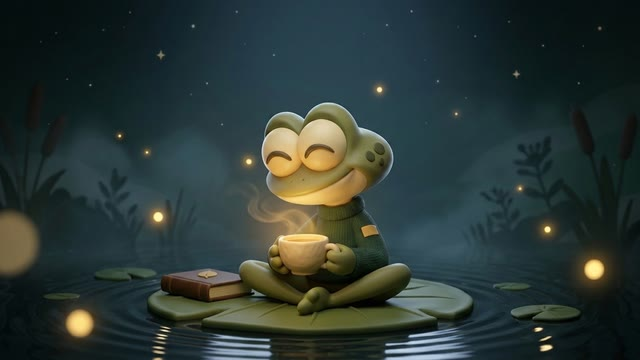
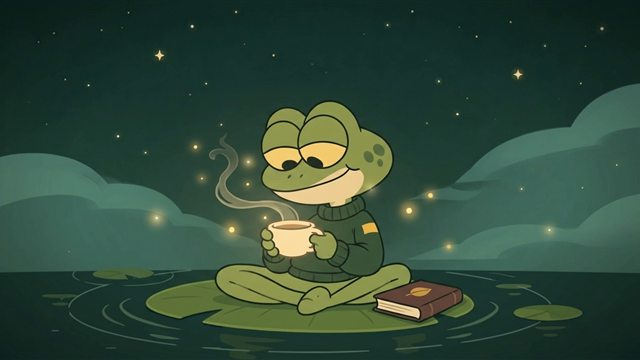
feat(landing): restore 2D frog assets, expand fireflies, and stream android phone gallery

diff --git a/assets/landing-polish.css b/assets/landing-polish.css
@@ -8,26 +8,26 @@ body { background: var(--bg-deep); }
 .nav-links a { padding: 8px 10px; }
 .nav-links a.active, .nav-links a[aria-current="true"] { color: var(--ink); background: none; }
 .nav-cta { font-size: 13px; min-height: 42px; }
-.hero { min-height: min(750px, calc(100dvh - 64px)); display: grid; grid-template-columns: minmax(0,1fr) minmax(0,1fr); gap: clamp(50px,8vw,140px); align-items: center; padding-block: 70px 90px; }
-.pond-stage { grid-column: 2; grid-row: 1; width: min(100%, 410px); height: min(560px, 67vh); justify-self: center; position: relative; overflow: hidden; border: 1px solid rgba(240,199,94,0.22); border-radius: 220px 220px 24px 24px; background: #11231b url('hero/frog-reading-poster.webp') center 50% / cover no-repeat; transform-style: preserve-3d; transform: perspective(1200px) rotateX(var(--tilt-x, 2deg)) rotateY(var(--tilt-y, -4deg)) translateZ(0); box-shadow: 0 1px 0 rgba(240,199,94,0.34) inset, 0 8px 0 #09110d, 0 28px 48px -12px rgba(0,0,0,0.75); transition: transform 180ms cubic-bezier(0.16, 1, 0.3, 1), box-shadow 320ms cubic-bezier(0.16, 1, 0.3, 1); }
+.hero { position: relative; min-height: min(750px, calc(100dvh - 64px)); display: grid; grid-template-columns: minmax(0,1fr) minmax(0,1fr); gap: clamp(50px,8vw,140px); align-items: center; padding-block: 70px 90px; }
+.pond-stage { grid-column: 2; grid-row: 1; width: min(100%, 410px); height: min(560px, 67vh); justify-self: center; position: relative; z-index: 1; overflow: hidden; border: 1px solid rgba(240,199,94,0.22); border-radius: 220px 220px 24px 24px; background: #11231b url('hero/frog-reading-poster.webp') center 50% / cover no-repeat; transform-style: preserve-3d; transform: perspective(1200px) rotateX(var(--tilt-x, 2deg)) rotateY(var(--tilt-y, -4deg)) translateZ(0); box-shadow: 0 1px 0 rgba(240,199,94,0.34) inset, 0 8px 0 #09110d, 0 28px 48px -12px rgba(0,0,0,0.75); transition: transform 180ms cubic-bezier(0.16, 1, 0.3, 1), box-shadow 320ms cubic-bezier(0.16, 1, 0.3, 1); }
 .pond-stage:hover { will-change: transform; }
 .pond-stage::after { content: ""; position: absolute; inset: 0; z-index: 2; border-radius: inherit; pointer-events: none; background: radial-gradient(circle at var(--glare-x, 35%) var(--glare-y, 25%), rgba(240,199,94,0.18), rgba(143,194,122,0.06) 38%, transparent 70%); box-shadow: 0 1px 0 rgba(240,199,94,0.34) inset, 0 -2px 0 rgba(0,0,0,0.7) inset; transition: opacity 280ms cubic-bezier(0.16, 1, 0.3, 1); }
 .pond-video { width: 100%; height: 100%; object-fit: cover; object-position: center; }
-.hero-message { grid-column: 1; grid-row: 1; max-width: 600px; }
+.hero-message { grid-column: 1; grid-row: 1; position: relative; z-index: 1; max-width: 600px; }
 .hero h1 { font-size: clamp(52px, 5.5vw, 78px); line-height: 1.03; letter-spacing: -.045em; font-weight: 700; }
 .hero-copy { margin: 22px 0 30px; max-width: 440px; font-size: clamp(17px,1.6vw,20px); color: var(--ink-dim); line-height: 1.45; }
 .hero .cta-primary { min-height: 54px; padding: 0 24px; font-size: 15px; }
 .hero-mobile-link { display: flex; align-items: center; width: fit-content; min-height: 44px; margin-top: 9px; font-size: 13px; color: var(--muted); text-decoration: underline; text-underline-offset: 3px; }
 .hero-mobile-link:hover { color: var(--ink); }
-.story { min-height: 690px; display: grid; grid-template-columns: minmax(280px, .72fr) minmax(0, 1.28fr); gap: clamp(40px,6vw,96px); align-items: center; padding-block: 95px; border-top: 1px solid var(--quiet-line); content-visibility: auto; contain-intrinsic-size: auto 640px; }
+.story { position: relative; min-height: 690px; display: grid; grid-template-columns: minmax(280px, .72fr) minmax(0, 1.28fr); gap: clamp(40px,6vw,96px); align-items: center; padding-block: 95px; border-top: 1px solid var(--quiet-line); content-visibility: auto; contain-intrinsic-size: auto 640px; }
 .story-reverse { grid-template-columns: minmax(0,1.28fr) minmax(280px,.72fr); }
 .story-reverse .story-copy { grid-column: 2; grid-row: 1; }
 .story-reverse .story-visual { grid-column: 1; grid-row: 1; }
-.story-copy { max-width: 450px; }
+.story-copy { position: relative; z-index: 1; max-width: 450px; }
 .story-num { display: block; margin-bottom: 19px; font-family: var(--font-mono); font-size: 12px; letter-spacing: .09em; color: var(--accent); }
 .story h2 { max-width: 500px; font-size: clamp(38px,3.5vw,52px); line-height: 1.08; font-weight: 700; }
 .story-copy > p { max-width: 390px; margin-top: 18px; font-size: 18px; line-height: 1.5; color: var(--ink-dim); }
-.story-visual { min-width: 0; margin: 0; perspective: 1400px; }
+.story-visual { position: relative; z-index: 1; min-width: 0; margin: 0; perspective: 1400px; }
 .story-visual-stack { display: grid; grid-template-columns: minmax(0, 1fr); gap: 24px; }
 .visual-crop { position: relative; overflow: hidden; width: 100%; border: 1px solid rgba(240,199,94,0.16); border-radius: 18px; background: var(--surface); transform-style: preserve-3d; box-shadow: 0 1px 0 rgba(239,233,220,0.22) inset, 0 7px 0 #0a0e0c, 0 26px 46px -12px rgba(0,0,0,0.74); transition: transform 200ms cubic-bezier(0.16, 1, 0.3, 1), box-shadow 320ms cubic-bezier(0.16, 1, 0.3, 1), border-color 320ms cubic-bezier(0.16, 1, 0.3, 1); }
 .visual-crop::after { content: ""; position: absolute; inset: 0; z-index: 2; border-radius: inherit; pointer-events: none; background: radial-gradient(circle at var(--glare-x, 50%) var(--glare-y, 20%), rgba(240,199,94,0.16), rgba(143,194,122,0.05) 36%, transparent 68%); box-shadow: 0 1px 0 rgba(239,233,220,0.22) inset, 0 -2px 0 rgba(0,0,0,0.75) inset; opacity: 0.35; transition: opacity 280ms cubic-bezier(0.16, 1, 0.3, 1); }
@@ -54,6 +54,7 @@ body { background: var(--bg-deep); }
 .pond-firefly-2 { top: 26%; right: 6%; width: 9px; height: 9px; animation: firefly-drift-2 10.2s ease-in-out 1.4s infinite; }
 .pond-firefly-3 { bottom: 18%; left: 8%; width: 10px; height: 10px; animation: firefly-drift-3 9.4s ease-in-out 2.8s infinite; }
 .pond-firefly-4 { top: 56%; right: 14%; width: 14px; height: 14px; animation: firefly-drift-4 11.6s ease-in-out 0.7s infinite; }
+.pond-firefly-5 { top: 18%; left: 48%; width: 11px; height: 11px; animation: firefly-drift-2 9.8s ease-in-out 2.1s infinite; }
 @keyframes firefly-drift-1 {
   0%, 100% { transform: translate3d(0, 0, 0) scale(0.85); opacity: 0.22; }
   35% { transform: translate3d(18px, -22px, 0) scale(1.1); opacity: 0.82; }
@@ -138,6 +139,7 @@ footer > p { max-width: 600px; color: var(--ink-dim); font-size: 15px; }
   .mobile-visual { width: min(100%, 260px); }
   .feedback-section { padding-block: 68px; }
   .pond-firefly-1 { top: 6%; left: auto; right: 10%; }
+  .pond-firefly-5 { top: 22%; left: 10%; }
   .feedback-head { grid-template-columns: 1fr; gap: 24px; align-items: start; }
   .feedback-vignette { margin: 0; width: min(100%, 300px); }
   .feedback-vignette figcaption { text-align: left; }
@@ -153,10 +155,10 @@ footer > p { max-width: 600px; color: var(--ink-dim); font-size: 15px; }
   .footer-bottom { flex-direction: column; align-items: flex-start; margin-top: 36px; gap: 12px; }
 }
 @media (prefers-reduced-motion: reduce) {
-  .pond-video { display: none; }
+  .pond-video,
+  .pond-fireflies { display: none; }
   .pond-firefly,
   .feedback-vignette { animation: none; transform: none; translate: none; will-change: auto; }
-  .pond-firefly { opacity: 0.32; }
   .pond-stage,
   .pond-stage:hover,
   .visual-crop,

diff --git a/features/index.html b/features/index.html
@@ -13,13 +13,13 @@
   <meta property="og:image" content="https://www.sylviae.space/assets/og-sylviae.jpg">
   <meta property="og:image:width" content="1200">
   <meta property="og:image:height" content="630">
-  <meta property="og:image:alt" content="3D Moonlit Pond diorama of the Sylviae frog wearing a green sweater and reading a glowing book on a floating lily pad surrounded by fireflies">
+  <meta property="og:image:alt" content="Sylviae Moonlit Pond: illustrated frog reading on a floating lily pad surrounded by fireflies">
   <meta property="og:type" content="website">
   <meta name="twitter:card" content="summary_large_image">
   <meta name="twitter:title" content="Features | Sylviae">
   <meta name="twitter:description" content="Explore Sylviae focus timer, tasks, distraction blocking, sounds, and Deep Focus on Windows.">
   <meta name="twitter:image" content="https://www.sylviae.space/assets/og-sylviae.jpg">
-  <meta name="twitter:image:alt" content="3D Moonlit Pond diorama of the Sylviae frog wearing a green sweater and reading a glowing book on a floating lily pad surrounded by fireflies">
+  <meta name="twitter:image:alt" content="Sylviae Moonlit Pond: illustrated frog reading on a floating lily pad surrounded by fireflies">
   <link rel="canonical" href="https://www.sylviae.space/features/">
   <link rel="icon" href="/assets/icon.ico" sizes="any">
   <link rel="stylesheet" href="/assets/site-core.css">
@@ -54,7 +54,7 @@
 <header class="inner-hero shell"><span class="story-num">THE WINDOWS WORKSPACE</span><h1>Make room for focus.</h1><p>A timer, one task, a quieter screen. The current v1.0.0 beta is free for Windows 64-bit.</p><a class="text-link" href="https://github.com/JGuilherme2005/Toki-Landing/releases/download/v1.0.0/toki-setup-1.0.0.exe">Download the Windows beta <span aria-hidden="true">&darr;</span></a></header>
 <section class="story shell" id="focus"><div class="story-copy"><span class="story-num">01 / FOCUS</span><h2>One task at a time.</h2><p>Start a focus timer beside your local tasks. Your next task stays close without pulling you into another app.</p><p class="fine-note">The native desktop image is a preview. The download is the current Windows v1.0.0 beta.</p></div><figure class="story-visual"><div class="visual-crop"><picture><source media="(max-width: 1024px)" srcset="/assets/app/mobile-today.webp" width="410" height="560"><img src="/assets/app/native-today-1280.webp" width="1582" height="900" alt="Native desktop preview with a focus timer beside today's tasks" loading="lazy"></picture></div></figure></section>
 <section class="story story-reverse shell" id="blocking"><div class="story-copy"><span class="story-num">02 / BLOCKING</span><h2>A boundary that holds.</h2><p>Choose distracting websites and applications. On Windows, Sylviae keeps the selected sites and apps out of reach during a focus session.</p><p class="fine-note">Blocking is a Windows desktop feature. Android currently saves your blocklist without enforcing it.</p></div><figure class="story-visual"><div class="visual-crop"><picture><source media="(max-width: 1024px)" srcset="/assets/app/mobile-blockers.webp" width="660" height="510"><img src="/assets/app/native-blockers-1280.webp" width="1582" height="1000" alt="Native desktop preview showing selected blocked sites and apps" loading="lazy"></picture></div></figure></section>
-<section class="story shell" id="sounds"><div class="story-copy"><span class="story-num">03 / SOUNDS &amp; DEEP FOCUS</span><h2>Sound that follows your time.</h2><p>Choose offline focus music or save Spotify and YouTube sources. Audio can follow the timer, fall silent during breaks, or keep playing.</p><p>Deep Focus turns the session into a quieter full-screen pond, with your task and countdown in view.</p><p class="fine-note">These native desktop images are previews; the current v1.0.0 Windows beta download is a separate build.</p></div><figure class="story-visual story-visual-stack"><div class="visual-crop"><picture><source media="(max-width: 1024px)" srcset="/assets/app/mobile-sounds.webp" width="660" height="382"><img src="/assets/app/native-sounds-1280.webp" width="1582" height="590" alt="Native desktop preview of the Sounds library" loading="lazy"></picture></div><div class="visual-crop"><img src="/assets/hero/frog-3d-diorama.webp" srcset="/assets/hero/frog-3d-diorama-640.webp 640w, /assets/hero/frog-3d-diorama.webp 1280w" sizes="(max-width: 700px) 92vw, 760px" width="1280" height="720" loading="lazy" decoding="async" alt="3D diorama of the Sylviae frog reading on a floating lily pad in Deep Focus"></div></figure></section></main>
+<section class="story shell" id="sounds"><div class="pond-fireflies" aria-hidden="true"><span class="pond-firefly pond-firefly-1" aria-hidden="true"></span><span class="pond-firefly pond-firefly-2" aria-hidden="true"></span><span class="pond-firefly pond-firefly-3" aria-hidden="true"></span><span class="pond-firefly pond-firefly-4" aria-hidden="true"></span></div><div class="story-copy"><span class="story-num">03 / SOUNDS &amp; DEEP FOCUS</span><h2>Sound that follows your time.</h2><p>Choose offline focus music or save Spotify and YouTube sources. Audio can follow the timer, fall silent during breaks, or keep playing.</p><p>Deep Focus turns the session into a quieter full-screen pond, with your task and countdown in view.</p><p class="fine-note">These native desktop images are previews; the current v1.0.0 Windows beta download is a separate build.</p></div><figure class="story-visual story-visual-stack"><div class="visual-crop"><picture><source media="(max-width: 1024px)" srcset="/assets/app/mobile-sounds.webp" width="660" height="382"><img src="/assets/app/native-sounds-1280.webp" width="1582" height="590" alt="Native desktop preview of the Sounds library" loading="lazy"></picture></div><div class="visual-crop"><img src="/assets/hero/frog-2d-deepfocus.jpg" width="960" height="540" alt="Sylviae frog reading on a floating lily pad in Deep Focus" loading="lazy" decoding="async"></div></figure></section></main>
     <!-- site-footer -->
   </div>
   <script type="module" src="/src/site-motion.js"></script>

diff --git a/android/index.html b/android/index.html
@@ -13,13 +13,13 @@
   <meta property="og:image" content="https://www.sylviae.space/assets/og-sylviae.jpg">
   <meta property="og:image:width" content="1200">
   <meta property="og:image:height" content="630">
-  <meta property="og:image:alt" content="3D Moonlit Pond diorama of the Sylviae frog wearing a green sweater and reading a glowing book on a floating lily pad surrounded by fireflies">
+  <meta property="og:image:alt" content="Sylviae Moonlit Pond: illustrated frog reading on a floating lily pad surrounded by fireflies">
   <meta property="og:type" content="website">
   <meta name="twitter:card" content="summary_large_image">
   <meta name="twitter:title" content="Android private beta | Sylviae">
   <meta name="twitter:description" content="See the Sylviae Android private beta, including Deep Focus, tasks, history, and the saved-only blocklist.">
   <meta name="twitter:image" content="https://www.sylviae.space/assets/og-sylviae.jpg">
-  <meta name="twitter:image:alt" content="3D Moonlit Pond diorama of the Sylviae frog wearing a green sweater and reading a glowing book on a floating lily pad surrounded by fireflies">
+  <meta name="twitter:image:alt" content="Sylviae Moonlit Pond: illustrated frog reading on a floating lily pad surrounded by fireflies">
   <link rel="canonical" href="https://www.sylviae.space/android/">
   <link rel="icon" href="/assets/icon.ico" sizes="any">
   <link rel="stylesheet" href="/assets/site-core.css">
@@ -70,7 +70,7 @@
   <div class="page">
     <main id="main">
 <header class="inner-hero shell android-hero"><div><span class="story-num">ANDROID / PRIVATE BETA</span><h1>Take the calm along.</h1><p>A small focus space for your pocket: timer, tasks, Deep Focus, focus audio, history, and streaks.</p><a class="text-link" href="https://github.com/JGuilherme2005/Toki-Landing/issues/new?title=Android%20private%20beta%20access%20request&amp;body=I%27d%20like%20to%20request%20access%20to%20the%20Sylviae%20Android%20private%20beta." target="_blank" rel="noopener noreferrer">Request beta access <span aria-hidden="true">&nearr;</span></a><p class="fine-note">Opens GitHub. A free account is required.</p></div><figure class="android-hero-phone animated-phone" data-animated-phone><div class="phone-frame"><img src="/assets/mobile/deep-focus.webp" alt="Android Deep Focus screen showing the timer and frog reading" width="540" height="1200"><video muted loop playsinline preload="none" poster="/assets/mobile/deep-focus.webp" aria-hidden="true" width="540" height="1200"></video><span class="phone-timer" aria-hidden="true">24:53</span></div></figure></header>
-<section class="inner-section shell"><span class="story-num">WHAT'S INSIDE</span><h2>A gentler way to begin.</h2><div class="phone-gallery"><figure><img src="/assets/mobile/guide/focus-tasks.webp" width="540" height="1200" alt="Android focus timer with task list" loading="lazy"><figcaption>Focus timer &amp; tasks</figcaption></figure><figure><img src="/assets/mobile/guide/history.webp" width="540" height="1200" alt="Android focus history and streaks" loading="lazy"><figcaption>History &amp; streaks</figcaption></figure><figure><img src="/assets/mobile/guide/blocklist.webp" width="540" height="1200" alt="Android blocklist that saves entries without blocking" loading="lazy"><figcaption>Saved blocklist</figcaption></figure></div></section>
+<section class="inner-section shell"><span class="story-num">WHAT'S INSIDE</span><h2>A gentler way to begin.</h2><div class="phone-gallery phone-marquee"><div class="phone-gallery-track"><div class="phone-gallery-group"><figure><img src="/assets/mobile/guide/focus-tasks.webp" width="540" height="1200" alt="Android focus timer with task list" loading="lazy" decoding="async"><figcaption>Focus timer &amp; tasks</figcaption></figure><figure><img src="/assets/mobile/guide/history.webp" width="540" height="1200" alt="Android focus history and streaks" loading="lazy" decoding="async"><figcaption>History &amp; streaks</figcaption></figure><figure><img src="/assets/mobile/guide/blocklist.webp" width="540" height="1200" alt="Android blocklist that saves entries without blocking" loading="lazy" decoding="async"><figcaption>Saved blocklist</figcaption></figure></div><div class="phone-gallery-group" aria-hidden="true"><figure><img src="/assets/mobile/guide/focus-tasks.webp" width="540" height="1200" alt="" loading="lazy" decoding="async"><figcaption>Focus timer &amp; tasks</figcaption></figure><figure><img src="/assets/mobile/guide/history.webp" width="540" height="1200" alt="" loading="lazy" decoding="async"><figcaption>History &amp; streaks</figcaption></figure><figure><img src="/assets/mobile/guide/blocklist.webp" width="540" height="1200" alt="" loading="lazy" decoding="async"><figcaption>Saved blocklist</figcaption></figure></div></div></div></section>
 <section class="inner-section shell beta-note"><span class="story-num">CURRENT LIMITS</span><h2>Clear about the beta.</h2><p>The Android build saves sites and apps to a blocklist, but it does not block them. Blocking works on Windows desktop. The Android app is available by request, with no public store listing or download.</p></section></main>
     <!-- site-footer -->
   </div>

diff --git a/assets/multipage.css b/assets/multipage.css
@@ -65,7 +65,17 @@
 .inner-section > p { max-width: 700px; margin-top: 24px; color: var(--ink-dim); font-size: 18px; line-height: 1.6; }
 .android-hero { min-height: 750px; display: grid; grid-template-columns: 1fr 330px; gap: clamp(40px, 8vw, 150px); align-items: center; }
 .android-hero-phone { width: 100%; margin: 0; }
-.phone-gallery { display: grid; grid-template-columns: repeat(3, minmax(0, 250px)); gap: clamp(18px, 4vw, 50px); margin-top: 55px; perspective: 1200px; }
+.phone-gallery { margin-top: 55px; perspective: 1200px; }
+.phone-marquee { position: relative; margin-top: 39px; padding-block: 16px 28px; overflow: hidden; -webkit-mask-image: linear-gradient(to right, transparent, #000 6%, #000 94%, transparent); mask-image: linear-gradient(to right, transparent, #000 6%, #000 94%, transparent); }
+.phone-gallery-track { --gallery-gap: clamp(52px, 10.5vw, 126px); display: flex; width: max-content; animation: phone-stream 28s linear infinite; will-change: transform; }
+.phone-marquee:hover .phone-gallery-track,
+.phone-marquee:focus-within .phone-gallery-track { animation-play-state: paused; }
+.phone-gallery-group { display: flex; flex: none; gap: var(--gallery-gap); padding-right: var(--gallery-gap); perspective: 1200px; }
+.phone-gallery-group figure { flex: 0 0 auto; width: clamp(230px, 24vw, 270px); }
+@keyframes phone-stream {
+  from { transform: translate3d(0, 0, 0); }
+  to { transform: translate3d(-50%, 0, 0); }
+}
 .phone-gallery figure { position: relative; margin: 0; transform-style: preserve-3d; transform: perspective(1000px) rotateX(var(--tilt-x, 2deg)) rotateY(var(--tilt-y, 0deg)) translateY(var(--lift-y, 0px)); transition: transform 200ms cubic-bezier(0.16, 1, 0.3, 1); }
 .phone-gallery figure::after { content: ""; position: absolute; top: 0; left: 0; right: 0; aspect-ratio: 540 / 1200; border-radius: 26px; pointer-events: none; background: radial-gradient(circle at var(--glare-x, 50%) var(--glare-y, 20%), rgba(240,199,94,0.16), rgba(143,194,122,0.05) 38%, transparent 70%); opacity: 0; transition: opacity 280ms cubic-bezier(0.16, 1, 0.3, 1); }
 .phone-gallery figure:hover { --lift-y: -8px; will-change: transform; }
@@ -108,8 +118,9 @@
   .inner-section { padding-block: 75px; }
   .android-hero { display: flex; flex-direction: column; align-items: flex-start; gap: 48px; }
   .android-hero-phone { width: min(75%, 270px); align-self: center; }
-  .phone-gallery { display: flex; overflow-x: auto; scroll-snap-type: x mandatory; gap: 14px; margin-inline: -16px; padding: 8px 16px 18px; margin-top: 30px; scroll-padding-inline: 16px; -webkit-overflow-scrolling: touch; }
-  .phone-gallery figure { flex: 0 0 70%; scroll-snap-align: start; transform: none; will-change: auto; }
+  .phone-marquee { margin-top: 14px; padding-block: 16px 28px; }
+  .phone-gallery-track { --gallery-gap: 20px; }
+  .phone-gallery-group figure { width: clamp(190px, 56vw, 240px); transform: none; will-change: auto; }
   .phone-gallery figure::after { border-radius: 16px; }
   .phone-gallery img { border-radius: 16px; }
   .phone-gallery figcaption { font-size: 13px; transform: none; }
@@ -121,6 +132,11 @@
   ::view-transition-old(root), ::view-transition-new(root) { animation: none; }
   .phone-frame > video, .phone-timer { display: none; }
   .animated-phone.is-visible .phone-frame { animation: none; }
+  .phone-marquee { margin-top: 55px; padding-block: 0; overflow: visible; -webkit-mask-image: none; mask-image: none; }
+  .phone-gallery-track { display: block; width: auto; animation: none; transform: none; will-change: auto; }
+  .phone-gallery-group[aria-hidden="true"] { display: none; }
+  .phone-gallery-group { display: grid; grid-template-columns: repeat(3, minmax(0, 250px)); gap: clamp(18px, 4vw, 50px); padding-right: 0; }
+  .phone-gallery-group figure { width: auto; }
   .phone-frame,
   .phone-frame:hover,
   .phone-gallery figure,
@@ -139,4 +155,8 @@
   .feedback-dot::after { animation: none; transition: none; }
   .js-motion .story.motion-ready .story-copy, .js-motion .story.motion-ready .story-visual, .js-motion .feedback-section.motion-ready .feedback-head-copy, .js-motion .feedback-section.motion-ready .feedback-vignette, .js-motion .feedback-section.motion-ready .feedback-card, .js-motion .feedback-section.motion-ready.is-visible .feedback-head-copy, .js-motion .feedback-section.motion-ready.is-visible .feedback-vignette, .js-motion .feedback-section.motion-ready.is-visible .feedback-card, .js-motion .inner-section.motion-ready, .js-motion .inner-hero.motion-ready { opacity: 1; transform: none; translate: none; transition-delay: 0ms; }
   *, *::before, *::after { scroll-behavior: auto !important; animation-duration: .01ms !important; transition-duration: .01ms !important; }
+}
+@media (prefers-reduced-motion: reduce) and (max-width: 700px) {
+  .phone-marquee { margin-top: 30px; }
+  .phone-gallery-group { grid-template-columns: minmax(0, 270px); justify-content: center; gap: 32px; }
 }

diff --git a/index.html b/index.html
@@ -14,13 +14,13 @@
   <meta property="og:image" content="https://www.sylviae.space/assets/og-sylviae.jpg">
   <meta property="og:image:width" content="1200">
   <meta property="og:image:height" content="630">
-  <meta property="og:image:alt" content="3D Moonlit Pond diorama of the Sylviae frog wearing a green sweater and reading a glowing book on a floating lily pad surrounded by fireflies">
+  <meta property="og:image:alt" content="Sylviae Moonlit Pond: illustrated frog reading on a floating lily pad surrounded by fireflies">
   <meta property="og:type" content="website">
   <meta name="twitter:card" content="summary_large_image">
   <meta name="twitter:title" content="Sylviae — Calm Focus Timer, Tasks &amp; Distraction Blocker for Windows">
   <meta name="twitter:description" content="Sylviae is a calm Windows focus workspace with a Pomodoro timer, tasks, site and app blocker, and focus audio, plus an Android companion in private beta.">
   <meta name="twitter:image" content="https://www.sylviae.space/assets/og-sylviae.jpg">
-  <meta name="twitter:image:alt" content="3D Moonlit Pond diorama of the Sylviae frog wearing a green sweater and reading a glowing book on a floating lily pad surrounded by fireflies">
+  <meta name="twitter:image:alt" content="Sylviae Moonlit Pond: illustrated frog reading on a floating lily pad surrounded by fireflies">
   <link rel="canonical" href="https://www.sylviae.space/">
   <link rel="icon" href="assets/icon.ico" sizes="any">
   <link rel="icon" type="image/png" sizes="256x256" href="assets/icon.png">
@@ -118,6 +118,13 @@
   <div class="page">
     <main id="main">
       <header class="hero shell" id="top" aria-labelledby="hero-title">
+        <div class="pond-fireflies" aria-hidden="true">
+          <span class="pond-firefly pond-firefly-1" aria-hidden="true"></span>
+          <span class="pond-firefly pond-firefly-2" aria-hidden="true"></span>
+          <span class="pond-firefly pond-firefly-3" aria-hidden="true"></span>
+          <span class="pond-firefly pond-firefly-4" aria-hidden="true"></span>
+          <span class="pond-firefly pond-firefly-5" aria-hidden="true"></span>
+        </div>
         <div class="pond-stage" role="img" aria-label="A frog reading on a lily pad under a night sky">
           <video class="pond-video" poster="assets/hero/frog-reading-poster.webp" width="540" height="960" muted loop playsinline preload="none" aria-hidden="true">
           </video>
@@ -149,6 +156,12 @@
       </section>
 
       <section class="story shell story-mobile" id="mobile" aria-labelledby="mobile-title">
+        <div class="pond-fireflies" aria-hidden="true">
+          <span class="pond-firefly pond-firefly-1" aria-hidden="true"></span>
+          <span class="pond-firefly pond-firefly-2" aria-hidden="true"></span>
+          <span class="pond-firefly pond-firefly-3" aria-hidden="true"></span>
+          <span class="pond-firefly pond-firefly-4" aria-hidden="true"></span>
+        </div>
         <div class="story-copy"><span class="story-num">04 / ANDROID PRIVATE BETA</span><h2 id="mobile-title">Take the calm along.</h2><p>The Android companion is in private beta, available by request. It saves blocklists but does not block sites or apps.</p><a class="story-link" href="%BASE_URL%android/">Learn more <span aria-hidden="true">&rarr;</span></a></div>
         <figure class="story-visual mobile-visual animated-phone" data-animated-phone><div class="phone-frame"><img src="assets/mobile/deep-focus.webp" alt="Sylviae Android Deep Focus private beta with the frog reading on a lily pad" width="540" height="1200" loading="lazy" decoding="async"><video muted loop playsinline preload="none" poster="assets/mobile/deep-focus.webp" aria-hidden="true" width="540" height="1200"></video><span class="phone-timer" aria-hidden="true">24:53</span></div></figure>
       </section>
@@ -168,7 +181,7 @@
           </div>
           <figure class="feedback-vignette">
             <div class="visual-crop feedback-frog">
-              <img src="assets/hero/frog-break-3d.jpg" width="640" height="360" alt="3D diorama of the Sylviae frog smiling with a warm cup of tea on a moonlit lily pad" loading="lazy" decoding="async">
+              <img src="assets/hero/frog-break-3d.jpg" width="640" height="360" alt="Sylviae frog smiling with a warm cup of tea beside its book on a moonlit lily pad" loading="lazy" decoding="async">
             </div>
             <figcaption>One jump at a time.</figcaption>
           </figure>

diff --git a/faq/index.html b/faq/index.html
@@ -13,13 +13,13 @@
   <meta property="og:image" content="https://www.sylviae.space/assets/og-sylviae.jpg">
   <meta property="og:image:width" content="1200">
   <meta property="og:image:height" content="630">
-  <meta property="og:image:alt" content="3D Moonlit Pond diorama of the Sylviae frog wearing a green sweater and reading a glowing book on a floating lily pad surrounded by fireflies">
+  <meta property="og:image:alt" content="Sylviae Moonlit Pond: illustrated frog reading on a floating lily pad surrounded by fireflies">
   <meta property="og:type" content="website">
   <meta name="twitter:card" content="summary_large_image">
   <meta name="twitter:title" content="Frequently asked questions | Sylviae">
   <meta name="twitter:description" content="Answers about Sylviae pricing, supported devices, offline use, privacy, and the Android private beta.">
   <meta name="twitter:image" content="https://www.sylviae.space/assets/og-sylviae.jpg">
-  <meta name="twitter:image:alt" content="3D Moonlit Pond diorama of the Sylviae frog wearing a green sweater and reading a glowing book on a floating lily pad surrounded by fireflies">
+  <meta name="twitter:image:alt" content="Sylviae Moonlit Pond: illustrated frog reading on a floating lily pad surrounded by fireflies">
   <link rel="canonical" href="https://www.sylviae.space/faq/">
   <link rel="icon" href="/assets/icon.ico" sizes="any">
   <link rel="stylesheet" href="/assets/site-core.css">

diff --git a/privacy/index.html b/privacy/index.html
@@ -13,13 +13,13 @@
   <meta property="og:image" content="https://www.sylviae.space/assets/og-sylviae.jpg">
   <meta property="og:image:width" content="1200">
   <meta property="og:image:height" content="630">
-  <meta property="og:image:alt" content="3D Moonlit Pond diorama of the Sylviae frog wearing a green sweater and reading a glowing book on a floating lily pad surrounded by fireflies">
+  <meta property="og:image:alt" content="Sylviae Moonlit Pond: illustrated frog reading on a floating lily pad surrounded by fireflies">
   <meta property="og:type" content="website">
   <meta name="twitter:card" content="summary_large_image">
   <meta name="twitter:title" content="Privacy | Sylviae">
   <meta name="twitter:description" content="Learn how Sylviae keeps core focus tools local by default and when connected services need the internet.">
   <meta name="twitter:image" content="https://www.sylviae.space/assets/og-sylviae.jpg">
-  <meta name="twitter:image:alt" content="3D Moonlit Pond diorama of the Sylviae frog wearing a green sweater and reading a glowing book on a floating lily pad surrounded by fireflies">
+  <meta name="twitter:image:alt" content="Sylviae Moonlit Pond: illustrated frog reading on a floating lily pad surrounded by fireflies">
   <link rel="canonical" href="https://www.sylviae.space/privacy/">
   <link rel="icon" href="/assets/icon.ico" sizes="any">
   <link rel="stylesheet" href="/assets/site-core.css">
